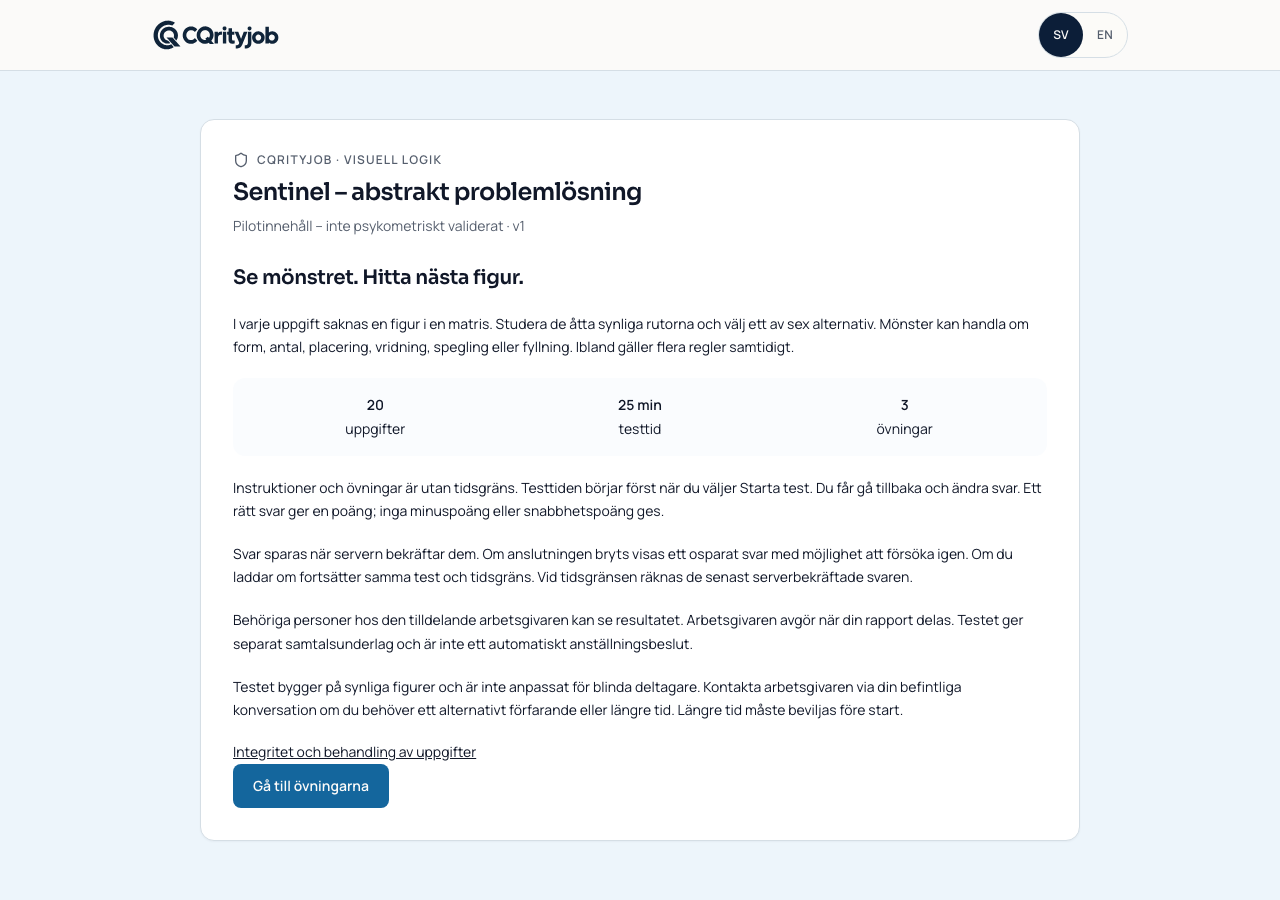
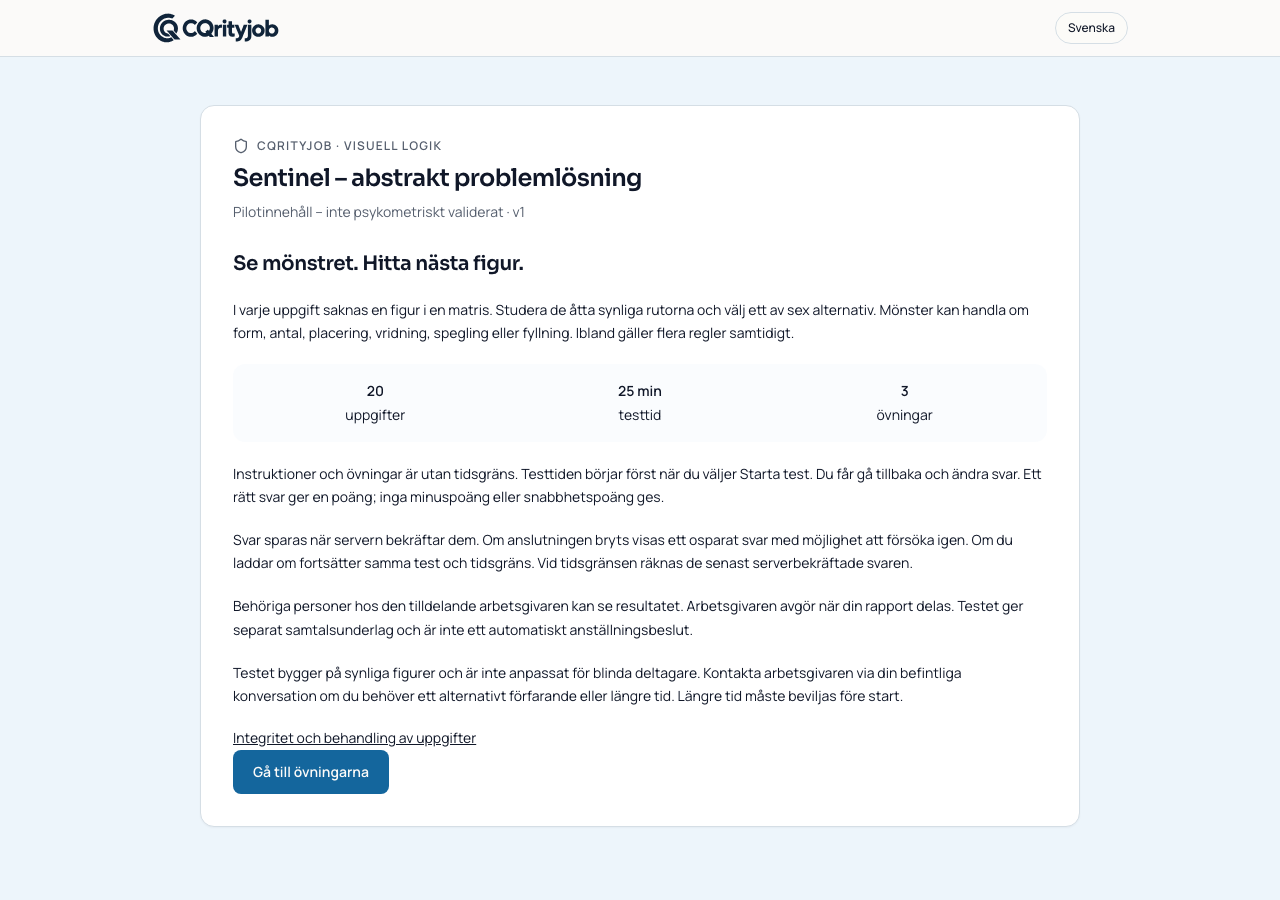
Preserve locked assignment language across Sentinel sessions

diff --git a/e2e/sentinel.spec.ts b/e2e/sentinel.spec.ts
@@ -95,7 +95,7 @@ test("Sentinel actual shared assignment, practice, twenty responses, refresh, re
     ["bo@journey.test", false],
   ] as const) {
     const ctx = await browser.newContext({ viewport: { width: 1280, height: 900 } });
-    const auth = await account(ctx, email, sv ? "sv" : "en");
+    const auth = await account(ctx, email, sv ? "en" : "sv");
     const rpc = async (name: string, body: object) => {
       const r = await fetch(`${gateway}/rest/v1/rpc/${name}`, {
         method: "POST",
@@ -229,10 +229,10 @@ test("Sentinel actual shared assignment, practice, twenty responses, refresh, re
     await expect(ep.getByRole("button", { name: "Dela resultat med kandidaten" })).toHaveCount(0);
     await page.goto(`${base}/academy/report/${target.work_id}`);
     await expect(
-      page.getByText(sv ? "rätt svar" : "correct answers", { exact: false }),
+      page.getByText(sv ? "correct answers" : "rätt svar", { exact: false }),
     ).toBeVisible();
     await page.screenshot({
-      path: `${shots}/candidate-report-${sv ? "sv" : "en"}.png`,
+      path: `${shots}/candidate-report-${sv ? "en" : "sv"}.png`,
       fullPage: true,
     });
     await ctx.close();

diff --git a/src/components/sentinel/Runner.tsx b/src/components/sentinel/Runner.tsx
@@ -160,7 +160,7 @@ export function SentinelRunner({ attemptId }: { attemptId: string }) {
   const outline = "min-h-11 rounded-lg border px-4 text-sm disabled:opacity-50";
   if (!session)
     return (
-      <AssessmentShell>
+      <AssessmentShell deliveryLanguage={lang}>
         <AssessmentPanel>
           <p role={error ? "alert" : "status"}>
             {error || (sv ? "Hämtar test…" : "Loading assessment…")}
@@ -175,7 +175,7 @@ export function SentinelRunner({ attemptId }: { attemptId: string }) {
     );
   if (["completed", "timed_out", "abandoned"].includes(session.status))
     return (
-      <AssessmentShell>
+      <AssessmentShell deliveryLanguage={lang}>
         <AssessmentPanel>
           <div className="mb-6 flex items-center gap-2">
             <CheckCircle2 className="h-5 w-5" />
@@ -191,7 +191,7 @@ export function SentinelRunner({ attemptId }: { attemptId: string }) {
   const item = session.questions[index];
   const exercise = practice[pindex];
   return (
-    <AssessmentShell>
+    <AssessmentShell deliveryLanguage={lang}>
       <AssessmentPanel>
         <header className="mb-7 flex items-start justify-between gap-3">
           <div>

diff --git a/scripts/assessment-language-contract-check.tsx b/scripts/assessment-language-contract-check.tsx
@@ -229,6 +229,18 @@ console.log("\nContract wiring: the runner reads the assignment, not the toggle"
     /<LanguageScope lang=\{deliveryLang\}>\s*<AcademyAttemptRunner/.test(runner),
   );
   check(
+    "W4b Sentinel is independently rendered under the assignment LanguageScope",
+    /<LanguageScope lang=\{deliveryLang\}>\s*<SentinelRunner/.test(runner),
+  );
+  const sentinel = stripComments(read("src/components/sentinel/Runner.tsx"));
+  check(
+    "W4c every Sentinel shell displays the locked delivery language",
+    (sentinel.match(/<AssessmentShell\b[^>]*>/g) ?? []).length === 3 &&
+      (sentinel.match(/<AssessmentShell\b[^>]*>/g) ?? []).every((s) =>
+        /deliveryLanguage=\{lang\}/.test(s),
+      ),
+  );
+  check(
     "W5 items and blocks are loaded under the scoped language",
     /loadItems\(\{ data: \{ attemptId, locale: lang \} \}\)/.test(runner) &&
       /loadBlocks\(\{ data: \{ attemptId, locale: lang \} \}\)/.test(runner),

diff --git a/src/routes/_authenticated.academy.$attemptId.tsx b/src/routes/_authenticated.academy.$attemptId.tsx
@@ -151,13 +151,16 @@ function AcademyAttemptRoute() {
   }
 
   const deliveryLang = resolveAttemptLanguage(resolved.state?.language ?? null, siteLang);
+  if (resolved.state?.assessmentType === "abstract_reasoning_v1") {
+    return (
+      <LanguageScope lang={deliveryLang}>
+        <SentinelRunner attemptId={attemptId} />
+      </LanguageScope>
+    );
+  }
   return (
     <LanguageScope lang={deliveryLang}>
-      {resolved.state?.assessmentType === "abstract_reasoning_v1" ? (
-        <SentinelRunner attemptId={attemptId} />
-      ) : (
-        <AcademyAttemptRunner key={attemptId} attemptId={attemptId} initialState={resolved.state} />
-      )}
+      <AcademyAttemptRunner key={attemptId} attemptId={attemptId} initialState={resolved.state} />
     </LanguageScope>
   );
 }

diff --git a/docs/assessment/sentinel/evidence.md b/docs/assessment/sentinel/evidence.md
@@ -7,7 +7,8 @@ All writes/test invitations use isolated loopback synthetic fixtures. No hosted 
 - Generator: **21,600** deterministic items checked: ten families × 500 numeric seeds × four variants (20,000), plus forty 256-bit string seeds × forty bank items (1,600). Reproduction, forty/twenty/three assembly, broad coverage, difficulty ordering, independent constraints, negative controls for altered keys/rows/geometry/options and symmetry equivalences pass (`bun run sentinel:check`).
 - Isolated PostgreSQL 16: full repository migration replay and regression suite (`scripts/db-test.sh`) passes again after merging main `e1a929a` (including the new Abu Dhabi migration); includes **35** new Sentinel assertions and privilege audit for both new private tables. Shared assignment, cancellation/report policy and existing profession-assessment suites remain in the full regression. Unused-installation rollback is included before legacy assessment rollback.
 - Sentinel SQL checks cover disabled release, preview/grants, assignment retry, tenant/candidate isolation, server deadline/start idempotency, accommodation, private payload/table denial, tampered item refusal, generic scorer refusal, stale/duplicate saves, refresh, raw scoring, withholding/release, no competency evidence, late-answer timeout and deletion cascade registration.
-- Chromium: complete SV and EN practice → twenty keyboard answers → submission → employer raw report → deliberate candidate release/report; refresh preserves deadline/accepted responses; second browser tab uses the same attempt; a deliberately aborted save shows unsaved state, blocks Next and succeeds after explicit retry; mobile 375px does not overflow. Scored POST responses exclude private explanatory metadata. Existing shared batch UI assigned two synthetic application recipients in the initial rehearsal; reruns reused those assignments. The English assignment language was configured in the disposable fixture to exercise assigned-language precedence.
+- Chromium: complete SV and EN practice (assignment language overrides the opposite stored site preference; the run header displays the locked language) → twenty keyboard answers → submission → employer raw report → deliberate candidate release/report; refresh preserves deadline/accepted responses; second browser tab uses the same attempt; a deliberately aborted save shows unsaved state, blocks Next and succeeds after explicit retry; mobile 375px does not overflow. Scored POST responses exclude private explanatory metadata. Existing shared batch UI assigned two synthetic application recipients in the initial rehearsal; reruns reused those assignments. The English assignment language was configured in the disposable fixture to exercise assigned-language precedence.
+- Assigned-language contract: 40 assertions; assessment reliability: 129; participant report availability: 170; legacy-route guard: 46 pass.
 - Shared regression guards: `send-test-dialog:check` (59), `recruitment-assessment-ux:check` (144), `library-direct-access:check` (16) pass.
 - App/script type checks, production build, focused ESLint (zero errors; two existing SendTestDialog hook warnings) and candidate-bundle private-engine scan pass. No dependencies were added.
 - Private offline gallery: forty candidates plus three exercises rendered; mobile no-overflow check passes. Contact sheets inspected for rendering/layout and gross visual defects. This is engineering review, not owner approval or a proof against every alternative rule interpretation.
